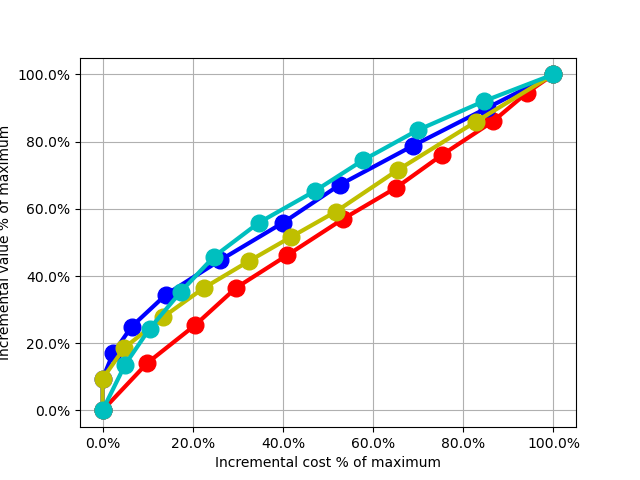
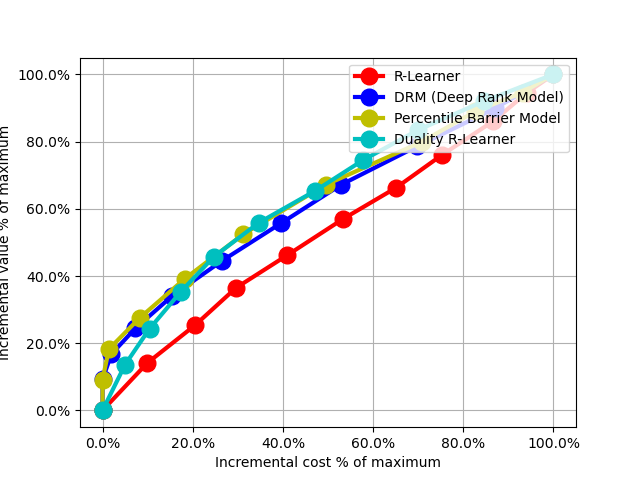
added image legend and parameter tuning for percentile_barrier_model

Changed region(s): [[0.1562, 0.125, 0.9062, 0.7812]]

diff --git a/run_script.py b/run_script.py
@@ -149,7 +149,7 @@ from Model.percentile_barrier import *
 p_quantile = torch.tensor(0.5, dtype=torch.float32)
 initial_temperature = torch.tensor(3, dtype=torch.float32)
 
-pb_model = percentile_barrier_model(input_dim=46, hidden_dim=138, initial_temp=initial_temperature, p_quantile=p_quantile)
+pb_model = percentile_barrier_model(input_dim=46, hidden_dim=92, initial_temp=initial_temperature, p_quantile=p_quantile)
 
 h_tre_rnkscore_pb, h_unt_rnkscore_pb  = pb_model.forward(D_tre=treat_nX_tr, D_unt=untreat_nX_tr)
 
@@ -210,4 +210,15 @@ mplt_drl, aucc_drl, percs_drl, cpits_drl, cpitcohorts_drl = ex.AUC_cpit_cost_cur
 )
 
 # note x forwarding is not working for pyplot.show()
+
+mplt_drl.legend(
+    labels=[
+        "R-Learner",
+        "DRM (Deep Rank Model)",
+        "Percentile Barrier Model",
+        "Duality R-Learner"
+    ],
+    loc="upper right",  # Specify location of legend
+    fontsize=10
+)
 mplt_drl.savefig('test_aucc_plot_drl.png')
